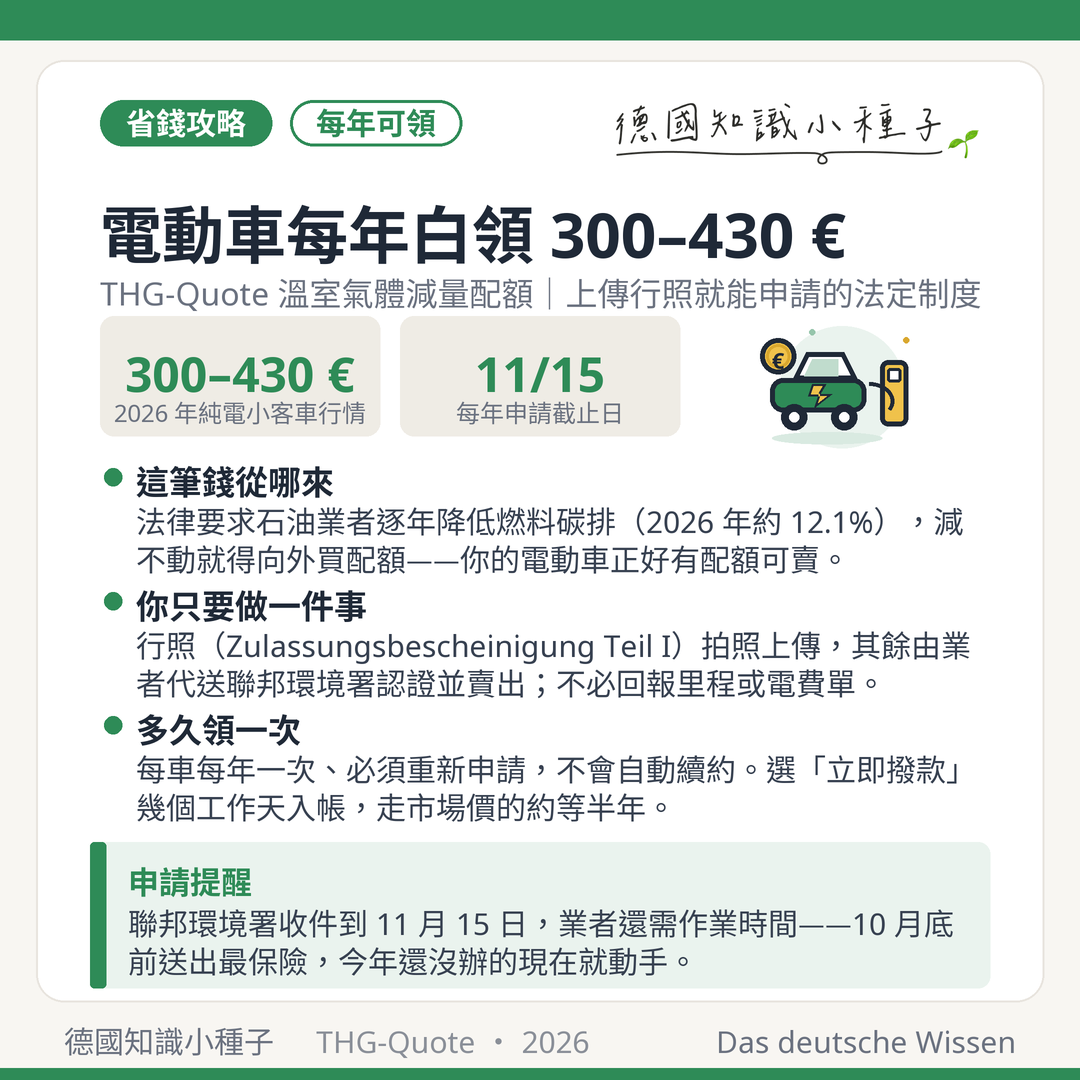
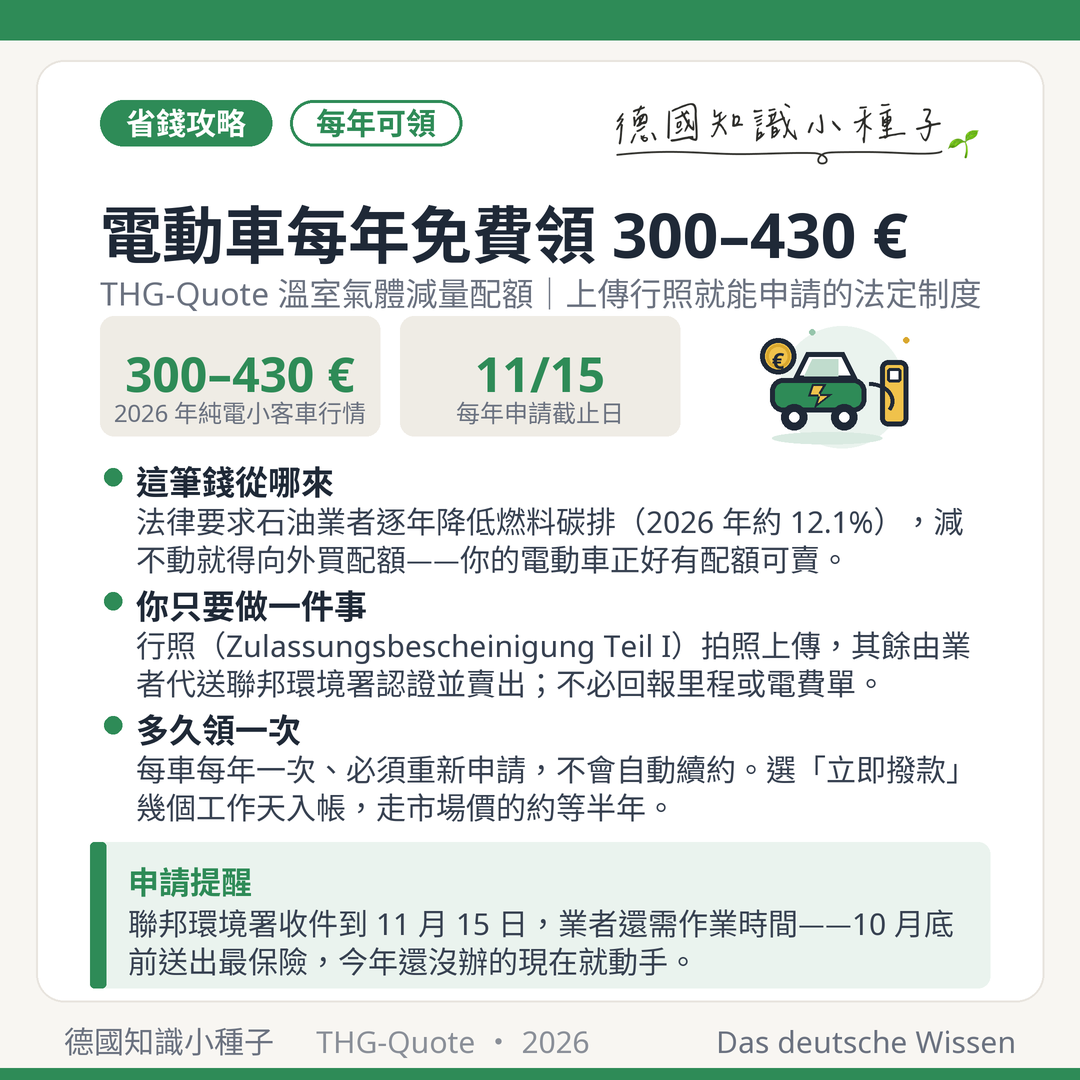
修正用語：「白領」改為「免費領／不領白不領」
用戶回饋：「白領」在台灣不順口。圖卡主標改「電動車每年免費領
300–430 €」，FB／IG 開場改用「不領白不領」；「白白丟掉一筆錢」
為台灣慣用說法，保留。

Claude-Session: https://claude.ai/code/session_017v3v3HoWe6EqoVSU9otcYt

Changed region(s): [[0.3667, 0.1833, 0.8556, 0.2444]]

diff --git a/scripts/cardgen/make_thg_cards.py b/scripts/cardgen/make_thg_cards.py
@@ -18,7 +18,7 @@ DATE_RANGE = '2026'
 CARDS = [
  dict(
   theme='#2E8B57', badges=[('省錢攻略', True), ('每年可領', False)], illu='evcharge',
-  title='電動車每年白領 300–430 €',
+  title='電動車每年免費領 300–430 €',
   subtitle='THG-Quote 溫室氣體減量配額｜上傳行照就能申請的法定制度',
   stats=[('300–430 €', '2026 年純電小客車行情'),
          ('11/15', '每年申請截止日')],
